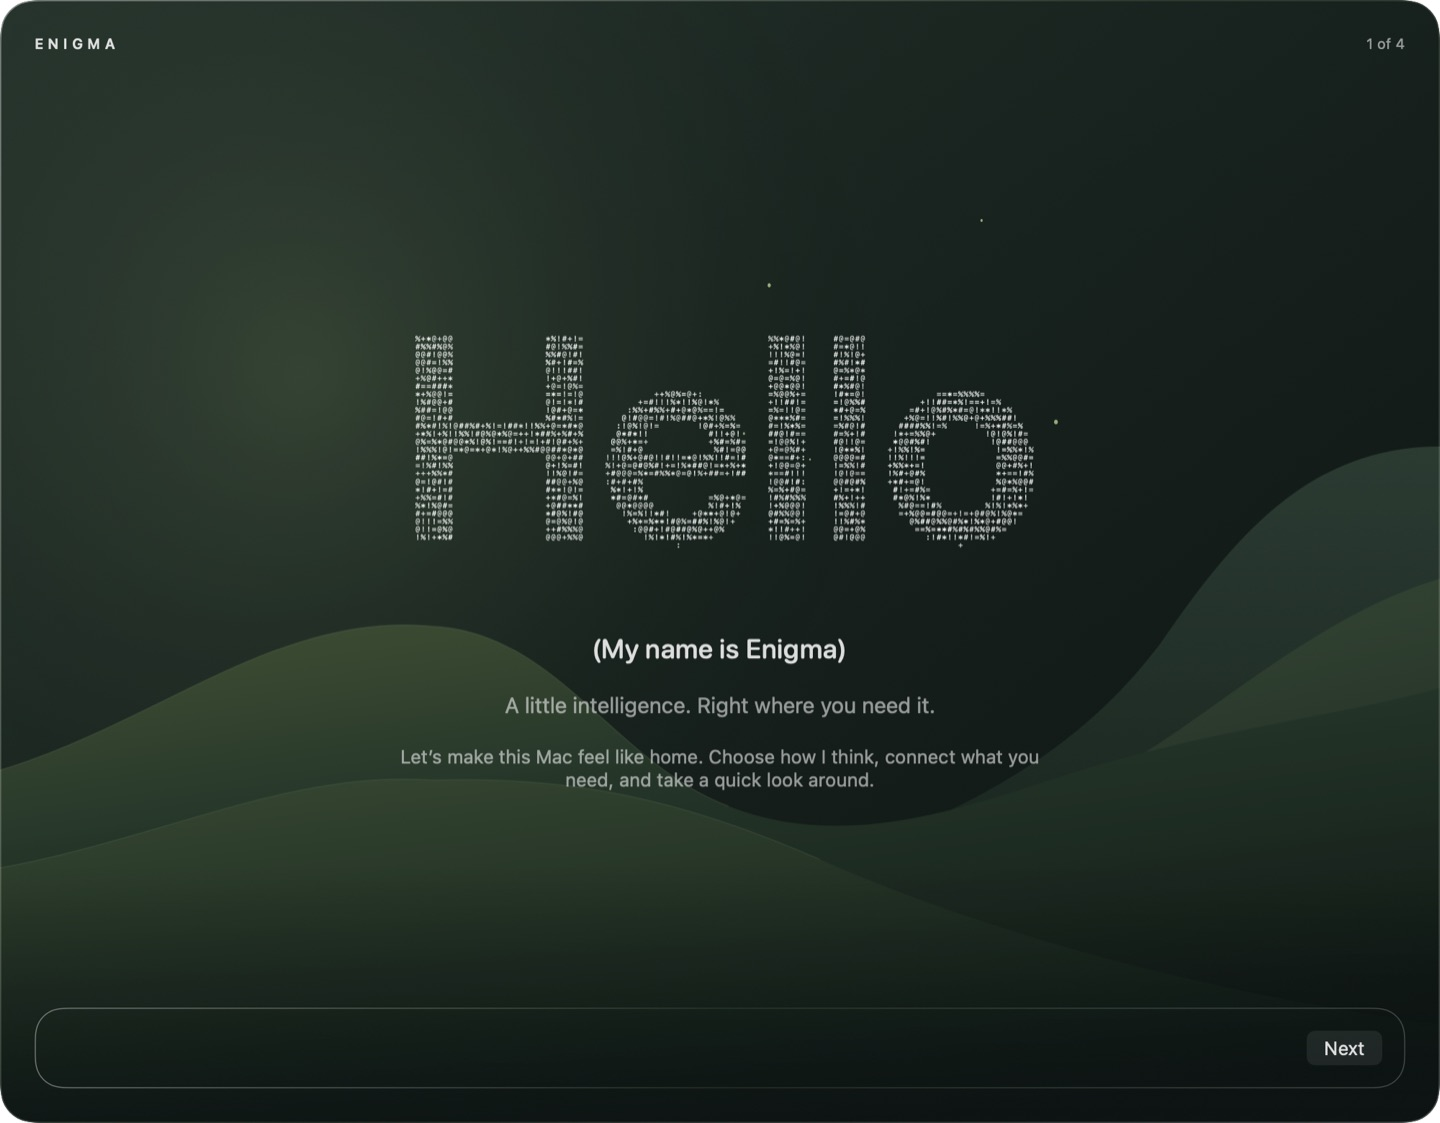
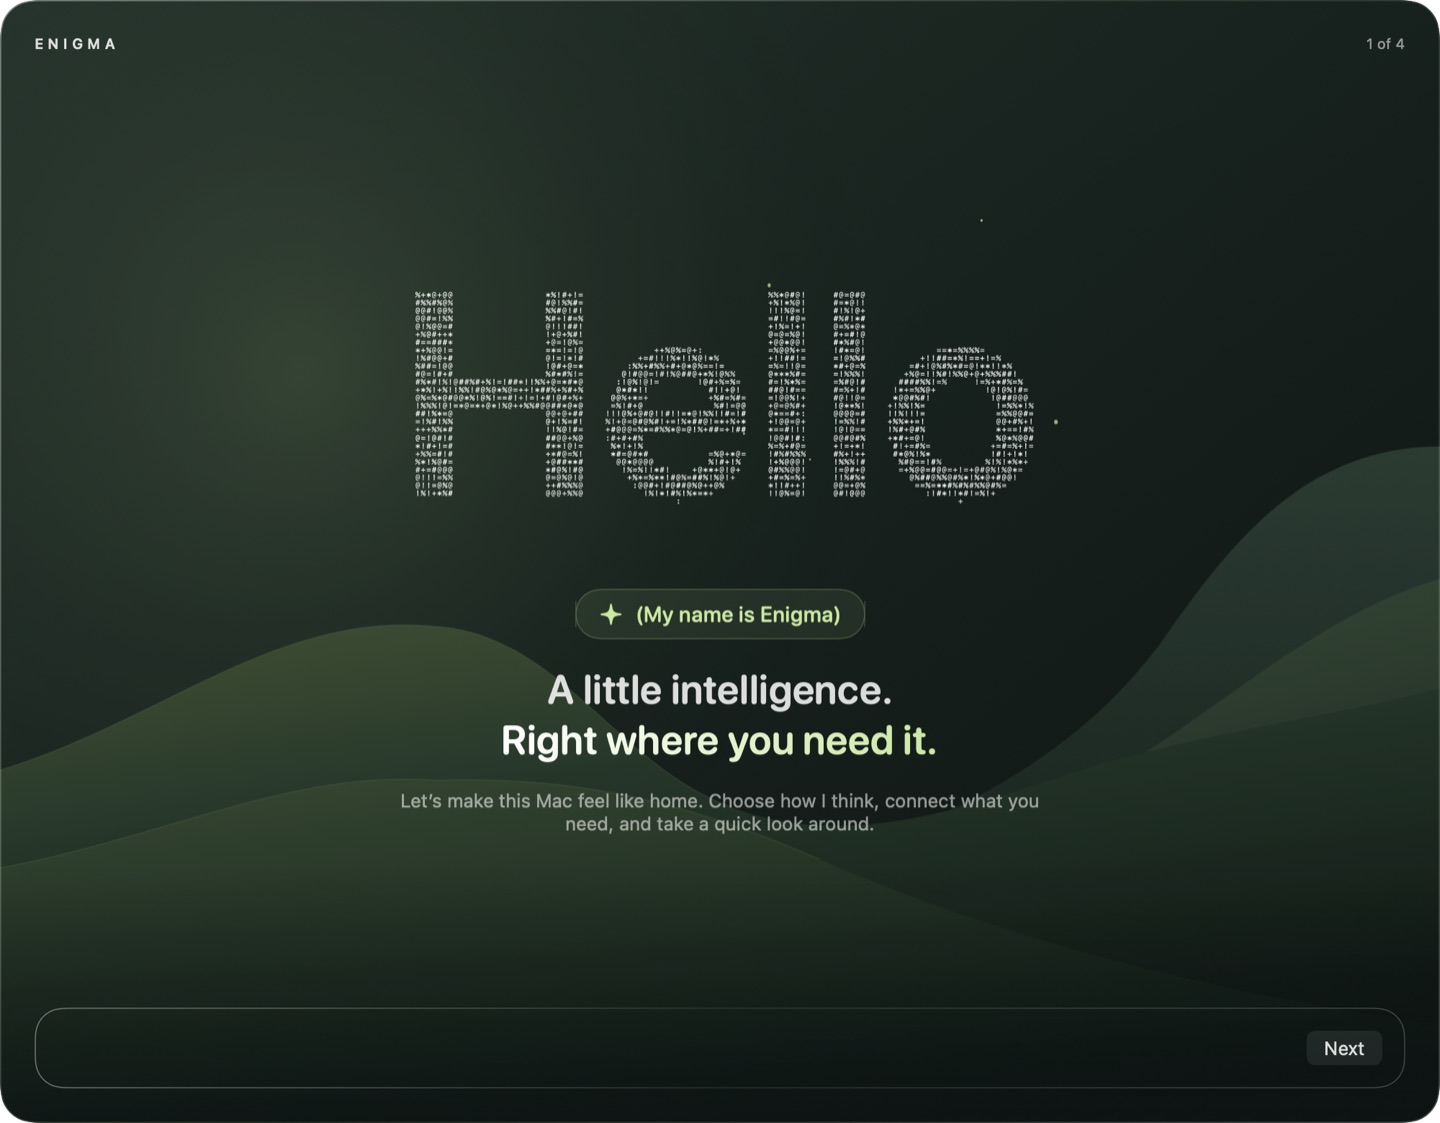
Enlarge setup temporarily and style the welcome greeting

Changed region(s): [[0.2812, 0.2493, 0.7188, 0.4987], [0.2812, 0.5298, 0.7188, 0.748]]

diff --git a/AI-Spotlight/App/SpotlightPanelController.swift b/AI-Spotlight/App/SpotlightPanelController.swift
@@ -1,4 +1,5 @@
 import AppKit
+import Combine
 import SwiftUI
 
 struct PanelSizeStore {
@@ -52,6 +53,8 @@ struct PanelSizeStore {
 final class SpotlightPanelController: NSObject, NSWindowDelegate {
   private let panel: SpotlightPanel
   private let sizeStore: PanelSizeStore
+  private var welcomeObservation: AnyCancellable?
+  private var normalSize: NSSize?
 
   private(set) var isCapturingScreen = false
   private var captureHiddenWindows: [NSWindow] = []
@@ -60,7 +63,8 @@ final class SpotlightPanelController: NSObject, NSWindowDelegate {
   init(
     glassAppearance: GlassAppearanceSettings,
     sizeStore: PanelSizeStore = PanelSizeStore(),
-    contentView: NSView? = nil
+    contentView: NSView? = nil,
+    welcomeSetup: WelcomeSetup? = nil
   ) {
     self.sizeStore = sizeStore
     panel = SpotlightPanel(
@@ -95,6 +99,11 @@ final class SpotlightPanelController: NSObject, NSWindowDelegate {
 
     NotificationCenter.default.addObserver(self, selector: #selector(beginSelectionReplacement), name: .selectionReplacementBegan, object: nil)
     NotificationCenter.default.addObserver(self, selector: #selector(endSelectionReplacement), name: .selectionReplacementEnded, object: nil)
+    if let welcomeSetup {
+      welcomeObservation = welcomeSetup.$isPresented.combineLatest(welcomeSetup.$tour)
+        .map { $0 || $1 != nil }.removeDuplicates()
+        .sink { [weak self] active in self?.setWelcomeSizing(active) }
+    }
     panel.onHide = { [weak self] in
       self?.hide()
     }
@@ -182,7 +191,25 @@ final class SpotlightPanelController: NSObject, NSWindowDelegate {
   }
 
   func windowDidEndLiveResize(_ notification: Notification) {
+    guard normalSize == nil else { return }
     sizeStore.save(panel.frame.size)
+  }
+
+  private func setWelcomeSizing(_ active: Bool) {
+    let size: NSSize
+    if active {
+      guard normalSize == nil else { return }
+      normalSize = panel.frame.size
+      size = NSSize(width: max(1280, panel.frame.width), height: max(860, panel.frame.height))
+    } else {
+      guard let previous = normalSize else { return }
+      size = previous
+      normalSize = nil
+    }
+    let visible = panel.screen?.visibleFrame ?? NSScreen.main?.visibleFrame
+    let frame = visible.map { PanelSizeStore.centeredFrame(size: size, in: $0) }
+      ?? NSRect(origin: panel.frame.origin, size: size)
+    panel.setFrame(frame, display: true)
   }
 
   private func centerOnActiveDisplay() {

diff --git a/AI-Spotlight/App/WelcomeSetup.swift b/AI-Spotlight/App/WelcomeSetup.swift
@@ -33,8 +33,8 @@ final class WelcomeSetup: ObservableObject {
   }
 
   func replay() {
-    tour = nil
     isPresented = true
+    tour = nil
     step = .welcome
   }
 
@@ -42,8 +42,8 @@ final class WelcomeSetup: ObservableObject {
     defaults.set(true, forKey: Self.completedKey)
     defaults.removeObject(forKey: Self.progressKey)
     defaults.set(true, forKey: "localModelOnboardingDismissed")
-    isPresented = false
     tour = takeTour ? .history : nil
+    isPresented = false
   }
 
   func nextTourStep() {
@@ -215,9 +215,22 @@ struct WelcomeSetupView: View {
   private func welcome(helloHeight: CGFloat) -> some View {
     VStack(spacing: 18) {
       EnigmaHelloView().frame(height: helloHeight)
-      Text("(My name is Enigma)").font(.system(size: 19, weight: .medium, design: .rounded))
-      Text("A little intelligence. Right where you need it.")
-        .font(.title3).foregroundStyle(.secondary)
+      HStack(spacing: 8) {
+        Image(systemName: "sparkle").accessibilityHidden(true)
+        Text("(My name is Enigma)")
+      }
+      .font(.system(size: 15, weight: .medium, design: .rounded))
+      .foregroundStyle(NatureGlass.accent)
+      .padding(.horizontal, 16).padding(.vertical, 8)
+      .background(NatureGlass.accent.opacity(0.08), in: Capsule())
+      .overlay { Capsule().strokeBorder(NatureGlass.accent.opacity(0.22), lineWidth: 0.75) }
+      VStack(spacing: 2) {
+        Text("A little intelligence.").foregroundStyle(.primary)
+        Text("Right where you need it.")
+          .foregroundStyle(LinearGradient(colors: [.white, NatureGlass.accent], startPoint: .leading, endPoint: .trailing))
+      }
+      .font(.system(size: 28, weight: .semibold, design: .rounded))
+      .multilineTextAlignment(.center)
       Text("Let’s make this Mac feel like home. Choose how I think, connect what you need, and take a quick look around.")
         .foregroundStyle(.secondary).multilineTextAlignment(.center).frame(maxWidth: 450)
     }.frame(maxWidth: .infinity).padding(.vertical, 8)

diff --git a/AI-SpotlightTests/AppCommandTests.swift b/AI-SpotlightTests/AppCommandTests.swift
@@ -179,6 +179,37 @@ final class AppCommandTests: XCTestCase {
   }
 
   @MainActor
+  func testWelcomeTemporarilyEnlargesPanelThroughTourWithoutSavingItsSize() throws {
+    let suite = "WelcomePanel-\(UUID())"
+    let defaults = try XCTUnwrap(UserDefaults(suiteName: suite))
+    defer { defaults.removePersistentDomain(forName: suite) }
+    let store = PanelSizeStore(defaults: defaults)
+    let normal = NSSize(width: 900, height: 610)
+    store.save(normal)
+    let setup = WelcomeSetup(defaults: defaults)
+    let view = NSView()
+    let controller = SpotlightPanelController(glassAppearance: GlassAppearanceSettings(defaults: defaults),
+      sizeStore: store, contentView: view, welcomeSetup: setup)
+    let window = try XCTUnwrap(view.window)
+    defer { controller.hide() }
+    setup.start(hasInstalledModels: false)
+    let visible = try XCTUnwrap(window.screen ?? NSScreen.main).visibleFrame
+    let enlarged = PanelSizeStore.centeredFrame(size: NSSize(width: 1280, height: 860), in: visible).size
+    XCTAssertEqual(window.frame.size, enlarged)
+    controller.windowDidEndLiveResize(Notification(name: NSWindow.didEndLiveResizeNotification, object: window))
+    XCTAssertEqual(store.load(), normal)
+    setup.finish(takeTour: true)
+    XCTAssertEqual(window.frame.size, enlarged)
+    setup.endTour()
+    XCTAssertEqual(window.frame.size, normal)
+    setup.replay()
+    XCTAssertEqual(window.frame.size, enlarged)
+    setup.finish(takeTour: false)
+    XCTAssertEqual(window.frame.size, normal)
+    XCTAssertEqual(store.load(), normal)
+  }
+
+  @MainActor
   func testPanelRequestsCaptureExclusionWhileRemainingVisibleAndEditable() throws {
     let draft = NSTextField(string: "Visible only where capture exclusion is supported")
     let controller = SpotlightPanelController(

diff --git a/AI-Spotlight/App/ApplicationDelegate.swift b/AI-Spotlight/App/ApplicationDelegate.swift
@@ -39,7 +39,7 @@ final class ApplicationDelegate: NSObject, NSApplicationDelegate {
     )
 
     let panelController = SpotlightPanelController(
-      glassAppearance: GlassAppearanceSettings()
+      glassAppearance: GlassAppearanceSettings(), welcomeSetup: .shared
     )
     let menuBarController = MenuBarController(panelController: panelController)
     menuBarController.install()

diff --git a/docs/Welcome-Setup.md b/docs/Welcome-Setup.md
@@ -2,6 +2,10 @@
 
 Welcome fills the rounded app window with the same continuous forest backdrop
 and a frosted navigation bar as the main interface, without a dark inset card.
+Setup temporarily expands the window to at least 1280 × 860, fitted to the
+current display. It keeps that space through the optional tour, then restores
+the normal window size. Resizing during setup does not overwrite the saved chat
+size. The Hello caption pairs a sage name badge with a two-line gradient greeting.
 
 First launch introduces Enigma in four steps:
 
@@ -97,10 +101,12 @@ These checks do not download multi-gigabyte models, purchase subscriptions, sign
 in to real accounts, or send paid search/chat requests. The checked-in screenshots
 use deterministic hardware and empty-account fixtures.
 
-Local verification after the full-window and slash-command refinements: build
-and static analysis passed. The full suite ran 486 tests with 10 optional skips
+Local verification after the window sizing and greeting refinements: build
+and static analysis passed. The full suite ran 487 tests with 10 optional skips
 and no failures. Rendering checks verify transparent outer corners on every
 welcome page and the integrated app window, plus all six tour steps at both
-window sizes. Native chat fixtures use isolated startup preferences so saved
+window sizes. A native panel regression verifies temporary enlargement, size
+restoration after skipping or ending the tour, replay, and saved-size preservation.
+Native chat fixtures use isolated startup preferences so saved
 user settings cannot change their routing. Live account authentication and
 multi-gigabyte downloads remain manual checks.
